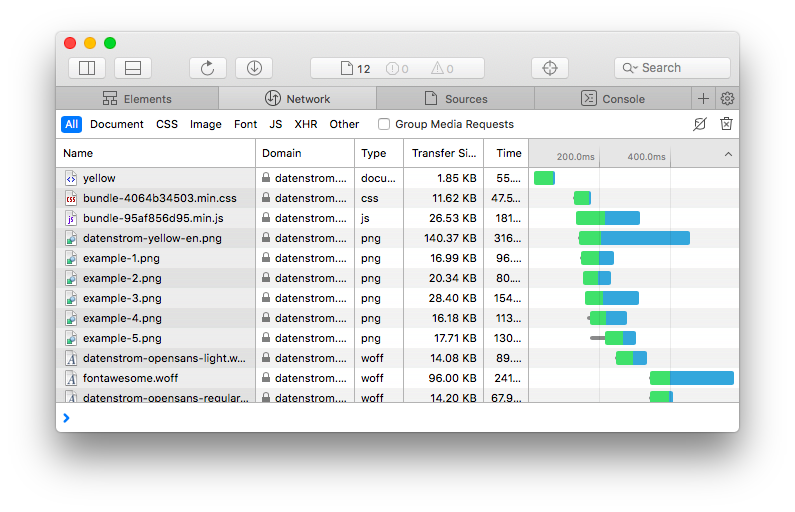
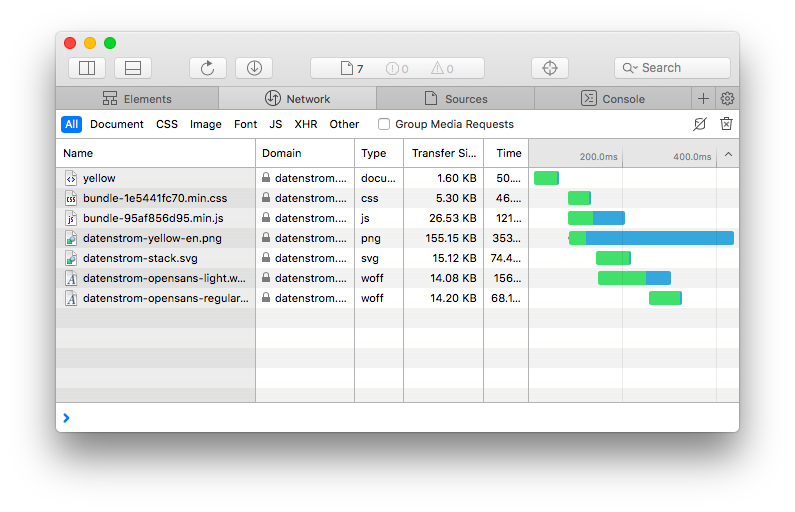
Updated documentation and screenshot

diff --git a/readme-de.md b/readme-de.md
@@ -24,7 +24,7 @@ Webseite mit ungebündelten CSS- und JavaScript-Dateien:
 <head>
 <title>Example page</title>
 <link rel="stylesheet" href="/assets/gallery.css" />
-<link rel="stylesheet" href="/assets/icon.css" />
+<link rel="stylesheet" href="/assets/highlight.css" />
 <link rel="stylesheet" href="/assets/stockholm.css" />
 <script defer="defer" src="/assets/gallery-photoswipe.min.js"></script>
 <script defer="defer" src="/assets/gallery.js"></script>

diff --git a/readme-sv.md b/readme-sv.md
@@ -24,7 +24,7 @@ Webbplats med obundna CSS- och JavaScript-filer:
 <head>
 <title>Example page</title>
 <link rel="stylesheet" href="/assets/gallery.css" />
-<link rel="stylesheet" href="/assets/icon.css" />
+<link rel="stylesheet" href="/assets/highlight.css" />
 <link rel="stylesheet" href="/assets/stockholm.css" />
 <script defer="defer" src="/assets/gallery-photoswipe.min.js"></script>
 <script defer="defer" src="/assets/gallery.js"></script>

diff --git a/readme.md b/readme.md
@@ -24,7 +24,7 @@ Website with unbundled CSS and JavaScript files:
 <head>
 <title>Example page</title>
 <link rel="stylesheet" href="/assets/gallery.css" />
-<link rel="stylesheet" href="/assets/icon.css" />
+<link rel="stylesheet" href="/assets/highlight.css" />
 <link rel="stylesheet" href="/assets/stockholm.css" />
 <script defer="defer" src="/assets/gallery-photoswipe.min.js"></script>
 <script defer="defer" src="/assets/gallery.js"></script>
